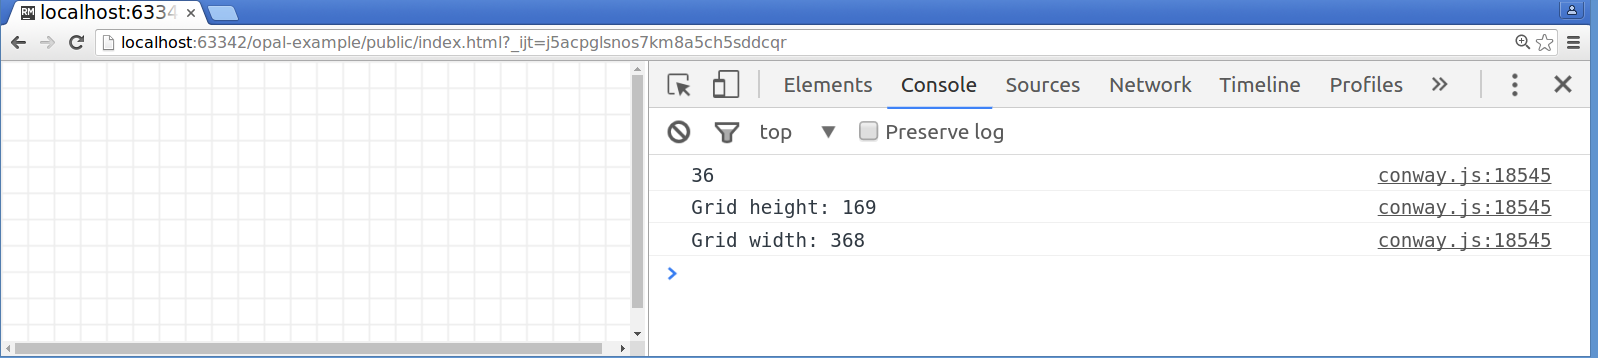
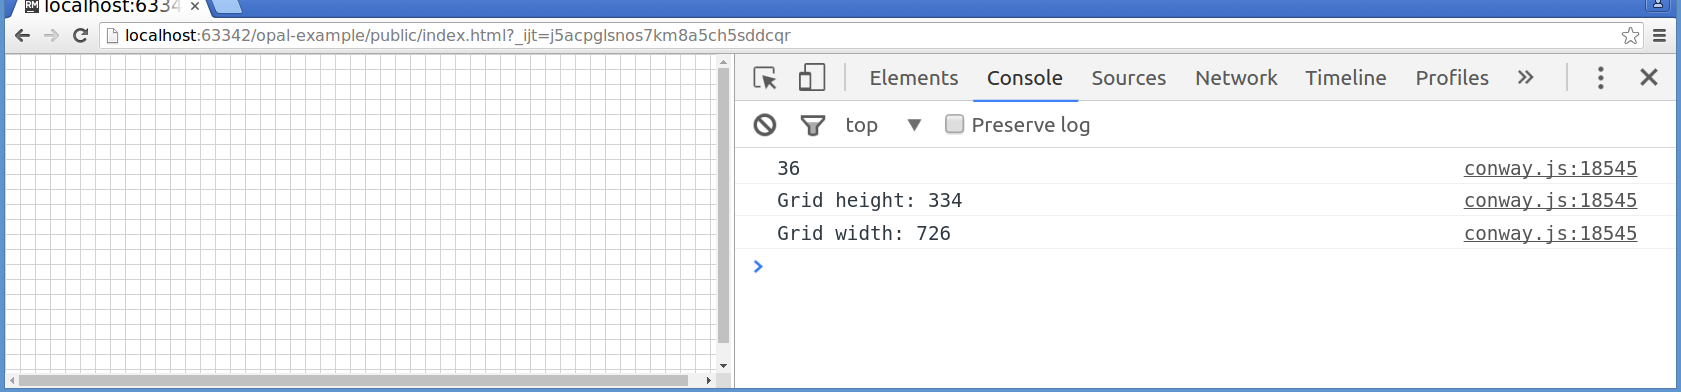
Drawing a Blank Grid - add Grid class (lightgray grid lines) and console log the width and height

Changed region(s): [[0.0, 0.0, 1.0, 1.0]]

diff --git a/public/conway.js b/public/conway.js
@@ -19180,7 +19180,7 @@ if (n == null) n = nil;
       self.$context().moveTo(0, y);
       self.$context().lineTo(self.$width(), y);
       y = $rb_plus(y, $scope.get('CELL_HEIGHT'));};
-      self.$context().strokeStyle = "#eee";
+      self.$context().strokeStyle = "lightgray";
       return self.$context().stroke();
     }), nil) && 'draw_canvas';
   })($scope.base, null);

diff --git a/app/conway.rb b/app/conway.rb
@@ -46,7 +46,7 @@ class Grid
       y += CELL_HEIGHT
     end
 
-    `#{context}.strokeStyle = "#eee"`
+    `#{context}.strokeStyle = "lightgray"`
     `#{context}.stroke()`
   end
 

diff --git a/doc/example_steps/1_grid_blank/conway.rb b/doc/example_steps/1_grid_blank/conway.rb
@@ -46,7 +46,7 @@ class Grid
       y += CELL_HEIGHT
     end
 
-    `#{context}.strokeStyle = "#eee"`
+    `#{context}.strokeStyle = "lightgray"`
     `#{context}.stroke()`
   end
 
